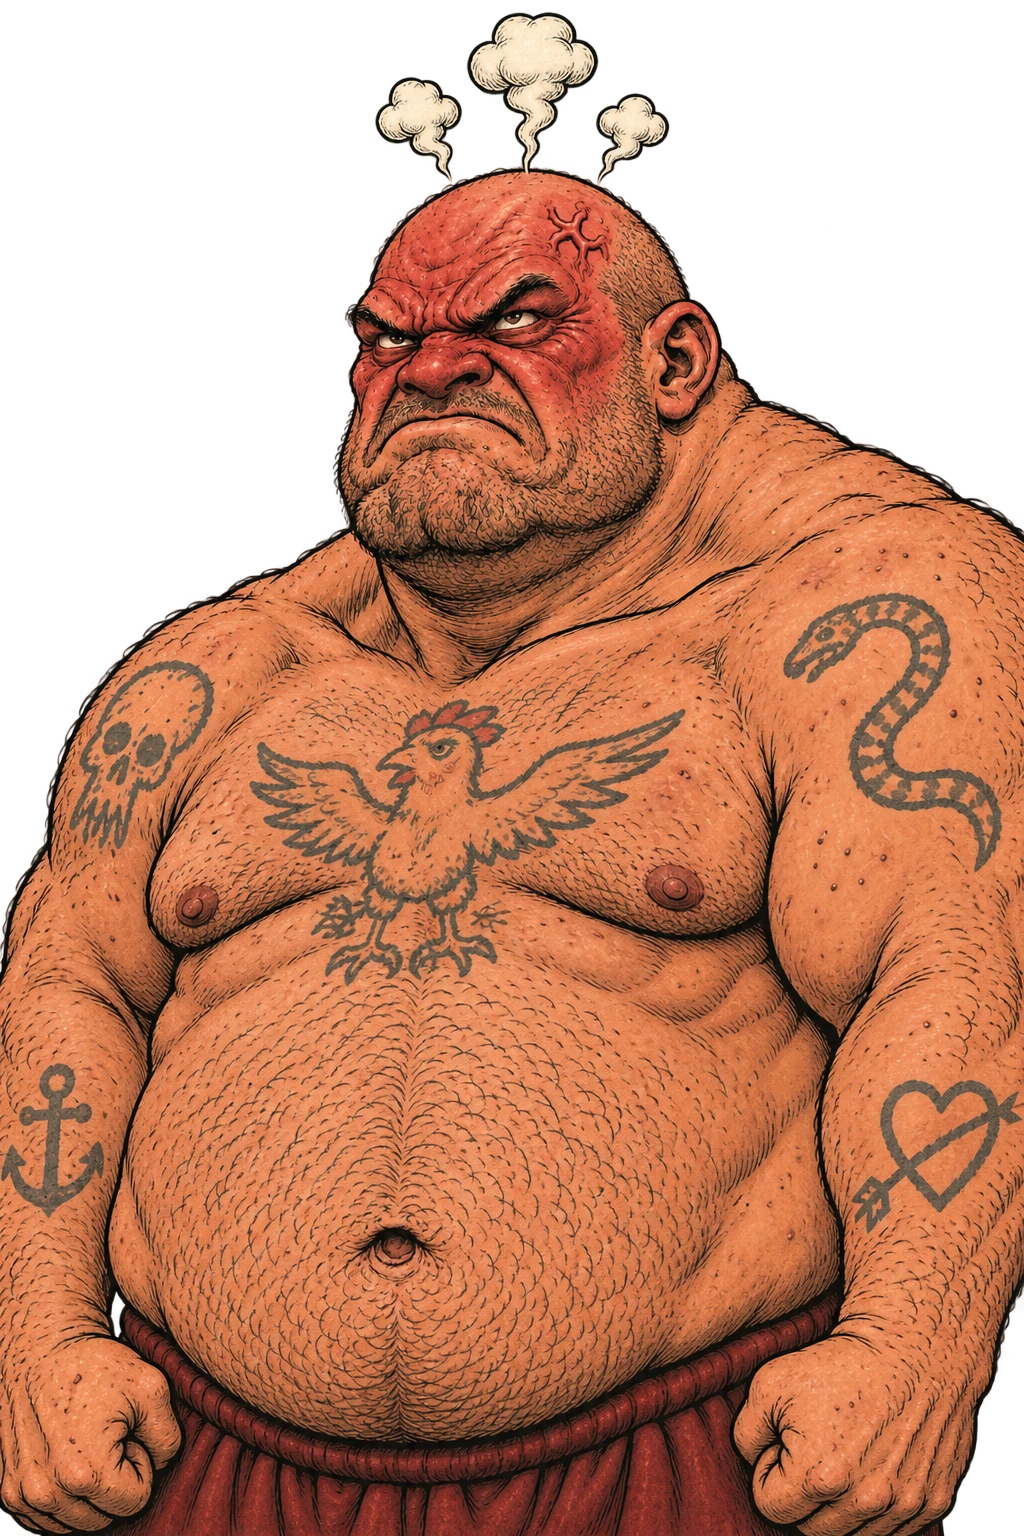
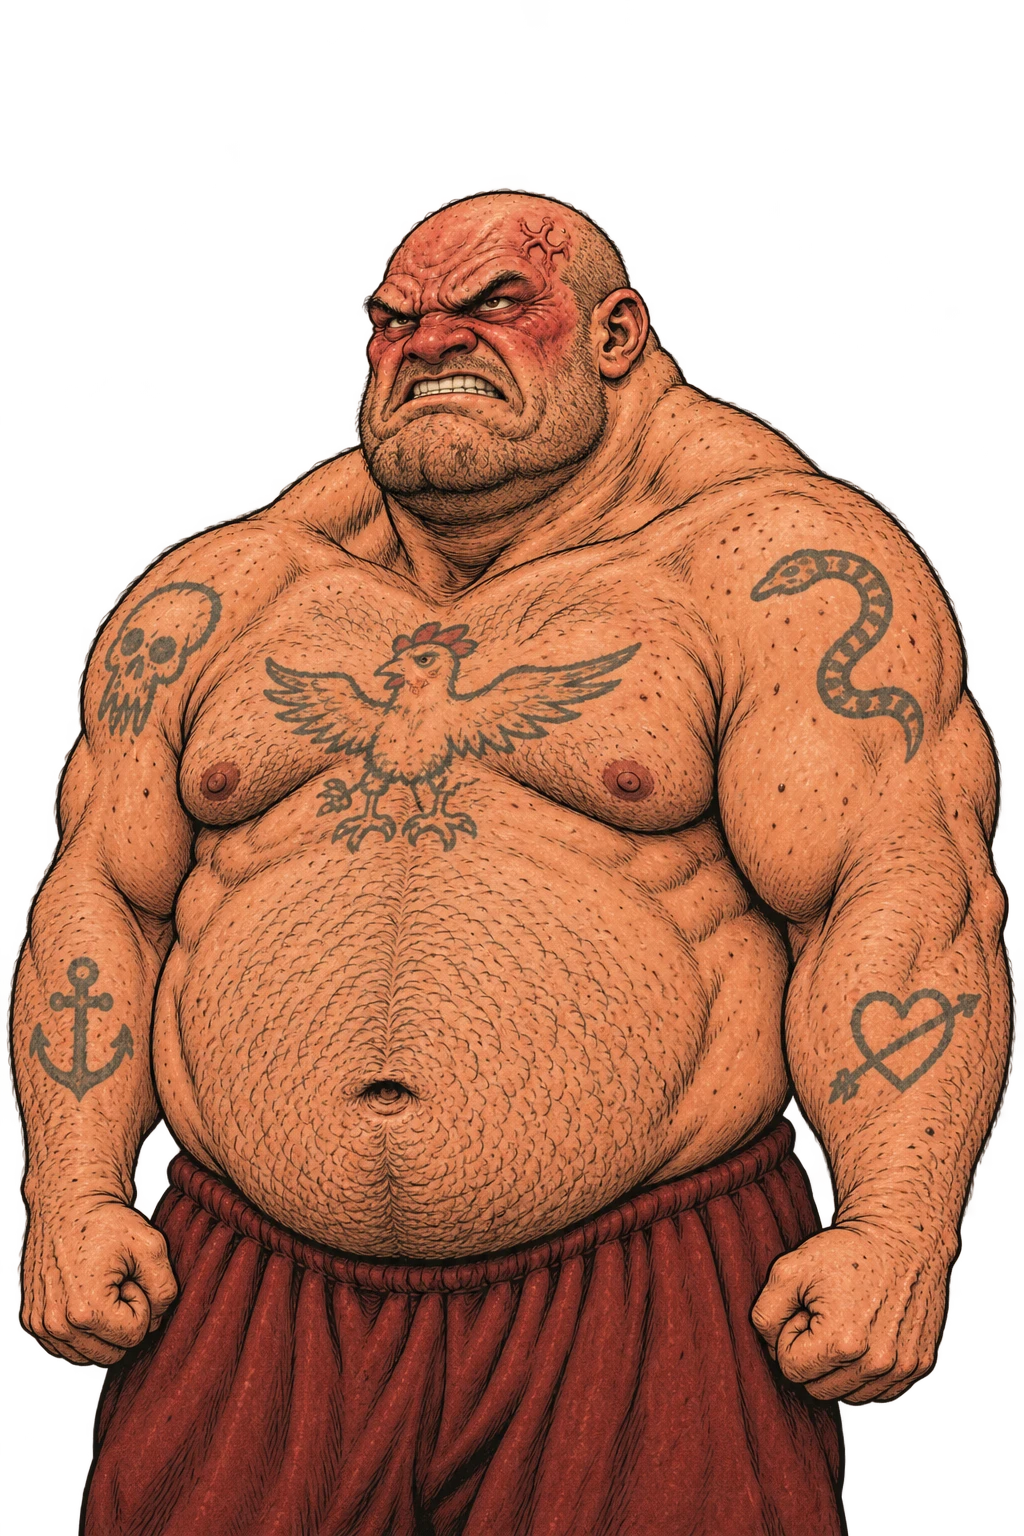
Careers: second round of the tutorial vertical slice
Second round of the scene 1 vertical slice, generated by the executor from
the prompts committed in prompt-fetta.md: S2 without the central hanging
lamp, Spazienzio furious at its peak and seething without steam, framed
from further away so his arms stay inside the canvas. The delivered files
replace the first-round candidates, which remain in history and in the
registry; three mock compositions are redone and the outcomes table gains
the second round, with the owner's judgment still empty.

diff --git a/docs/design/carriere/asset/tutorial/registro.md b/docs/design/carriere/asset/tutorial/registro.md
@@ -187,3 +187,120 @@ Scontorni: non necessari; i quattro originali hanno canale alfa nativo. Composiz
[3 lines of base64/hex data omitted]
+
+## Secondo giro
+
+I file del primo giro sono conservati nella storia Git; le relative impronte restano nelle schede precedenti.
+
+### s2-interno-2
+
+| Campo | Valore |
+|---|---|
+| Operatore | Codex, sessione con generazione integrata |
+| Strumento | image_gen integrato in Codex; URL non esposto |
+| Modello / versione | non esposto |
+| Data e ora (file originale) | 11/11/2026 18:54:53 +0100 |
+| ID job | non esposto |
+| Commit preventivo dei prompt | `7fb4f2f` |
+| Prompt | [prompt-fetta.md](../../prompt-fetta.md#secondo-giro); testo integrale sotto |
+| Modalità | modifica guidata dal riferimento |
+| Dimensioni richieste | 1536×1024 px, come originale |
[1 lines of base64/hex data omitted]
+| Parametri | un risultato; qualità e forza del riferimento non esposte; sfondo opaco |
+| Seed | non esposto |
+| Prompt riscritto | non esposto |
+| Campo negativo | paragrafo Avoid nel campo principale; nessun campo negativo separato |
[1 lines of base64/hex data omitted]
+| Altri allegati | nessuno |
+| Termini d’uso, condizioni e attribuzioni | non verificati in questa sessione |
+| C2PA | non verificato; originale conservato |
[2 lines of base64/hex data omitted]
+| Conversione | Pillow 13.0.0, WebP qualità 90, metodo 4, piena risoluzione; metadati non conservati; sfondo opaco |
+| Esito del tentativo | candidato per il giudizio del proprietario |
+
+Testo inviato integralmente:
+
+~~~text
+Edit the attached background illustration. Keep everything exactly the same: the room, the counter, the stools, the bottles, the espresso machine, the tables and chairs, the walls, the wall lamps, the colours, the hand-inked European comic style and the composition. Change only this: remove the large hanging lamp above the centre of the counter, together with its cord and its bright pool of light, and fill that area naturally with the same ceiling beams, shelves and wall behind it. The room stays lit by the wall lamps at the sides, with the same warm, dim, dirty mood.
+
+Avoid: any other change to the image; any text, letters, numbers, signs, labels, logos, brands, signatures or watermarks; neon signs; people, faces, hands, silhouettes; photographic or 3D-rendered style.
+~~~
+
+### spazienzio-furioso-2
+
+| Campo | Valore |
+|---|---|
+| Operatore | Codex, sessione con generazione integrata |
+| Strumento | image_gen integrato in Codex; URL non esposto |
+| Modello / versione | non esposto |
+| Data e ora (file originale) | 11/11/2026 18:55:48 +0100 |
+| ID job | non esposto |
+| Commit preventivo dei prompt | `7fb4f2f` |
+| Prompt | [prompt-fetta.md](../../prompt-fetta.md#secondo-giro); testo integrale sotto |
+| Modalità | modifica guidata dal riferimento |
+| Dimensioni richieste | 1024×1536 px |
[1 lines of base64/hex data omitted]
+| Parametri | un risultato; qualità e forza del riferimento non esposte; trasparenza richiesta |
+| Seed | non esposto |
+| Prompt riscritto | non esposto |
+| Campo negativo | paragrafo Avoid nel campo principale; nessun campo negativo separato |
[1 lines of base64/hex data omitted]
+| Altri allegati | nessuno |
+| Termini d’uso, condizioni e attribuzioni | non verificati in questa sessione |
+| C2PA | non verificato; originale conservato |
[2 lines of base64/hex data omitted]
+| Conversione | Pillow 13.0.0, WebP qualità 90, metodo 4, piena risoluzione; metadati non conservati; alfa nativo conservato, nessuno scontorno |
+| Esito del tentativo | candidato per il giudizio del proprietario |
+
+Testo inviato integralmente:
+
+~~~text
+Edit the attached approved character sheet into a single half-body portrait of the same man for a visual-novel dialogue scene. Keep his face, short bristly beard, bald head, enormous shirtless body, tattoos, colours and hand-inked European comic style exactly as in the reference; do not redesign him. Canvas 1024 x 1536 pixels, portrait 2:3. Framing: he is very broad, so frame him from a little further away than a normal half-body portrait: his whole shoulders and both arms, fists included, fit inside the canvas with a small empty margin on both sides; from the top of his head, with a small empty margin above it, down to his waist or a little below at the bottom edge; his eyes at about one quarter of the image height. Three-quarter view, turned toward the viewer. Background: fully transparent if supported; otherwise a perfectly flat, uniform magenta (#FF00FF) with no shadows, gradients or texture. Expression: explosive rage at its absolute peak, completely out of control: bellowing at the top of his lungs with his mouth wide open, eyes bulging, every vein on his head and neck swollen, face purple-red, leaning forward aggressively, both fists raised and shaking. Nothing comes out of his nose.
+
+Avoid: any other change to the character; mirroring; arms or fists cut off by the edges of the canvas; steam, smoke, drips or lines coming out of his nose or head; any text, letters, numbers, logos, brands, signatures or watermarks; scenery or other characters; likeness of any real person or celebrity; photographic or 3D-rendered style.
+~~~
+
+### spazienzio-fumante-2
+
+| Campo | Valore |
+|---|---|
+| Operatore | Codex, sessione con generazione integrata |
+| Strumento | image_gen integrato in Codex; URL non esposto |
+| Modello / versione | non esposto |
+| Data e ora (file originale) | 11/11/2026 18:56:35 +0100 |
+| ID job | non esposto |
+| Commit preventivo dei prompt | `7fb4f2f` |
+| Prompt | [prompt-fetta.md](../../prompt-fetta.md#secondo-giro); testo integrale sotto |
+| Modalità | modifica guidata dal riferimento |
+| Dimensioni richieste | 1024×1536 px |
[1 lines of base64/hex data omitted]
+| Parametri | un risultato; qualità e forza del riferimento non esposte; trasparenza richiesta |
+| Seed | non esposto |
+| Prompt riscritto | non esposto |
+| Campo negativo | paragrafo Avoid nel campo principale; nessun campo negativo separato |
[1 lines of base64/hex data omitted]
+| Altri allegati | nessuno |
+| Termini d’uso, condizioni e attribuzioni | non verificati in questa sessione |
+| C2PA | non verificato; originale conservato |
[2 lines of base64/hex data omitted]
+| Conversione | Pillow 13.0.0, WebP qualità 90, metodo 4, piena risoluzione; metadati non conservati; alfa nativo conservato, nessuno scontorno |
+| Esito del tentativo | candidato per il giudizio del proprietario |
+
+Testo inviato integralmente:
+
+~~~text
+Edit the attached approved character sheet into a single half-body portrait of the same man for a visual-novel dialogue scene. Keep his face, short bristly beard, bald head, enormous shirtless body, tattoos, colours and hand-inked European comic style exactly as in the reference; do not redesign him. Canvas 1024 x 1536 pixels, portrait 2:3. Framing: he is very broad, so frame him from a little further away than a normal half-body portrait: his whole shoulders and both arms, fists included, fit inside the canvas with a small empty margin on both sides; from the top of his head, with a small empty margin above it, down to his waist or a little below at the bottom edge; his eyes at about one quarter of the image height. Three-quarter view, turned toward the viewer. Background: fully transparent if supported; otherwise a perfectly flat, uniform magenta (#FF00FF) with no shadows, gradients or texture. Expression: seething, barely contained rage, about to explode but still holding it in: teeth grinding, jaw clenched so hard his cheeks bulge, eyes narrowed to slits, face flushed deep red, the vein on his temple throbbing, shoulders tense and fists clenched at his sides, trembling with the effort. This is figurative fuming: no steam, smoke or vapour anywhere.
+
+Avoid: any other change to the character; mirroring; arms or fists cut off by the edges of the canvas; steam, smoke, vapour, drips or lines coming out of his nose or head; any text, letters, numbers, logos, brands, signatures or watermarks; scenery or other characters; likeness of any real person or celebrity; photographic or 3D-rendered style.
+~~~
+
+### Composizioni del secondo giro
+
+Nessuno scontorno: alfa nativo. Composizioni con Pillow, script `%TEMP%\bm-fetta-secondo.py`; WebP qualità 90, sfondo ritagliato al centro, ritratti non specchiati.
+
[3 lines of base64/hex data omitted]

diff --git a/docs/design/carriere/prompt-fetta.md b/docs/design/carriere/prompt-fetta.md
@@ -129,3 +129,11 @@ Edit the attached approved character sheet into a single half-body portrait of t
 
 Avoid: any other change to the character; mirroring; arms or fists cut off by the edges of the canvas; steam, smoke, vapour, drips or lines coming out of his nose or head; any text, letters, numbers, logos, brands, signatures or watermarks; scenery or other characters; likeness of any real person or celebrity; photographic or 3D-rendered style.
 ~~~
+
+### Esiti del secondo giro
+
+| Asset | File | Scheda del registro | Giudizio del proprietario |
+|---|---|---|---|
+| s2-interno | [WebP](asset/tutorial/sfondi/s2-interno.webp) | [Scheda](asset/tutorial/registro.md#s2-interno-2) |  |
+| spazienzio-furioso | [WebP](asset/tutorial/ritratti/spazienzio-furioso.webp) | [Scheda](asset/tutorial/registro.md#spazienzio-furioso-2) |  |
+| spazienzio-fumante | [WebP](asset/tutorial/ritratti/spazienzio-fumante.webp) | [Scheda](asset/tutorial/registro.md#spazienzio-fumante-2) |  |
